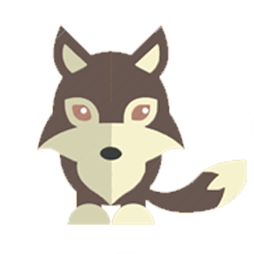
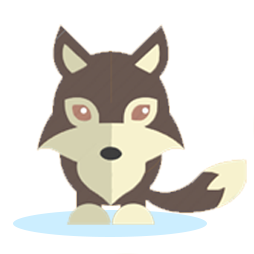
Improved walk performance

Changed region(s): [[0.0551, 0.8268, 0.8268, 0.937]]

diff --git a/src/models/Scout.js b/src/models/Scout.js
@@ -1,24 +1,23 @@
 import firebase from 'firebase/app';
 import 'firebase/database';
 
-import scoutSrc from '../assets/img/wolf-1.png';
+import ScoutSrc from '../assets/img/wolf-0.png';
+
 import config from '../config.js'
-import Path from './Path';
 
 export default class Scout {
 	constructor(uid, position, size, mode) {
 		this.scoutRef = firebase.database().ref('scouts').child(uid)
-
+		this.size = size
 		this.path = null
 		this.pathTimer = null
-
 		this.mode = 'STANDING'
-
+		this.isWalking = (mode == "WALKING")
 		this.marker = new google.maps.Marker({
 			uid: uid,
 			position: new google.maps.LatLng(position.lat, position.lng),
 			icon: {
-				url: scoutSrc,
+				url: ScoutSrc,
 				size: new google.maps.Size(size, size),
 				scaledSize: new google.maps.Size(size, size),
 				origin: new google.maps.Point(0, 0),
@@ -35,6 +34,16 @@ export default class Scout {
 		return this[key]
 	}
 
+	setIcon(icon) {
+		this.marker.setIcon({
+			url: icon,
+			size: new google.maps.Size(this.size, this.size),
+			scaledSize: new google.maps.Size(this.size, this.size),
+			origin: new google.maps.Point(0, 0),
+			anchor: new google.maps.Point(this.size / 2, this.size / 2)
+		})
+	}
+
 	setPosition(position) {
 		this.marker.setPosition(new google.maps.LatLng(position))
 	}
@@ -43,30 +52,28 @@ export default class Scout {
 		this.marker.setAnimation(animation)
 	}
 
-	walk(data) {
-		var interval = 200;
-		var now = (new Date).getTime()
-		var elapsed = ((now - data.timestamp) < 0) ? (interval * 2) : (now - data.timestamp) // @TODO unsure about this part...
-		var offset = (elapsed / interval) * 1.4
-
-		this.path = new Path(data.uid, data.path, '#3D91CB', '#3D91CB');
+	nextStep(data) {
+		var interval = 100;
+		var meterPerSecond = 1
+		var offset = ((data.timestamp - data.startTimestamp) / interval) * meterPerSecond
 
 		var walk = function() {
 			if (offset >= data.totalDist) {
-        clearInterval(this.pathTimer)
-
 				this.update({
-					totalDist: 0,
-					mode: "STANDING"
+					mode: "STANDING",
+					totalDist: null,
+					path: null,
+					timestamp: null,
+					startTimestamp: null
 				})
 			}
 			else {
-				offset = ((offset + 1.4) >= data.totalDist) ? data.totalDist : offset + 1.4;
-
-				var position = this.path.GetPointAtDistance(offset);
+				const point = ((offset + meterPerSecond) > data.totalDist) ? data.totalDist : offset
+				const position = this.path.GetPointAtDistance(point + meterPerSecond);
 
 				if (position != null) {
 					this.update({
+						timestamp: firebase.database.ServerValue.TIMESTAMP,
 						position: {
 							lat: position.lat(),
 							lng: position.lng()
@@ -76,18 +83,17 @@ export default class Scout {
 			}
 		}
 
-		this.pathTimer = setInterval(walk.bind(this), interval)
-
-		return this.path
+		this.pathTimer = setTimeout(walk.bind(this), interval)
 	}
 
 	stop() {
-		clearInterval(this.pathTimer)
-
 		return this.update({
-      totalDist: 0,
-      mode: "STANDING"
-    })
+			mode: "STANDING",
+			totalDist: null,
+			path: null,
+			timestamp: null,
+			startTimestamp: null
+		})
 	}
 
 	update(data) {

diff --git a/src/controllers/MarkerController.js b/src/controllers/MarkerController.js
@@ -9,8 +9,10 @@ import User from '../models/User';
 import Ward from '../models/Ward'
 import Gold from '../models/Gold'
 import Goblin from '../models/Goblin'
+import Path from '../models/Path';
 
-import ScoutSrc from '../assets/img/wolf-1.png';
+import ScoutSrc from '../assets/img/wolf-0.png';
+import ScoutSelectedSrc from '../assets/img/wolf-1.png';
 
 export default class MarkerController {
 	constructor(uid) {
@@ -30,6 +32,8 @@ export default class MarkerController {
 		this.storesRef = firebase.database().ref('stores')
 		this.wardsRef = null
 
+		this.path = null
+
 		this.myUser = null
 		this.myScout = null
 		this.myWardMarkers = []
@@ -45,8 +49,6 @@ export default class MarkerController {
 
 		this.userInfoWindow = null
 		this.scoutInfoWindow = null
-
-		this.isWalking = false
 	}
 
 	init(map) {
@@ -254,17 +256,21 @@ export default class MarkerController {
 		this.myScout = new Scout(uid, data.position, 40, data.mode);
 		this.myScout.marker.addListener('click', function(e) {
 			this.map.panTo(e.latLng)
-			this.myScout.marker.setAnimation(google.maps.Animation.BOUNCE)
+			this.myScout.setIcon(ScoutSelectedSrc)
 
 			window.dispatchEvent(new CustomEvent('cursor_changed', { detail: { type: "SCOUT" } }));
 		}.bind(this))
 
 		this.myScout.marker.setMap(this.map);
 
-		this.isWalking = (data.mode == "WALKING")
-
 		if (data.mode == "WALKING") {
- 			this.myScout.marker.setPosition(data.position)
+
+			if (this.myScout.path == null) {
+				this.myScout.path = new Path(data.uid, data.path, '#3D91CB', '#3D91CB');
+				this.myScout.path.setMap(this.map)
+			}
+
+			this.myScout.nextStep(data, this.path)
 		}
 
 		this.discover()
@@ -272,22 +278,26 @@ export default class MarkerController {
 
 	onMyScoutChanged(uid, data) {
 		this.myScout.set('mode', data.mode)
+		this.isWalking = this.myScout.isWalking
 
-		this.isWalking = (data.mode == "WALKING")
+		clearTimeout(this.myScout.pathTimer)
 
 		if (data.mode == "WALKING") {
 			this.myScout.setPosition(data.position)
 
 			if (this.myScout.path == null) {
-				var path = this.myScout.walk(data)
-				path.setMap(this.map)
+				this.myScout.path = new Path(data.uid, data.path, '#3D91CB', '#3D91CB');
+				this.myScout.path.setMap(this.map)
 			}
 
+			this.myScout.nextStep(data)
 		}
 
 		if (data.mode == "STANDING") {
-			this.myScout.path.setMap(null)
-			this.myScout.set('path', null)
+			if (this.myScout.path != null) {
+				this.myScout.path.setMap(null)
+				this.myScout.path = null
+			}
 
 			const title = '🔔 Scout Arrived';
 			const options = {

diff --git a/src/Home.vue b/src/Home.vue
@@ -66,7 +66,6 @@
         <li></li>
         <li></li>
         <li></li>
-        <li></li>
       </ul>
     </div>
 
@@ -109,7 +108,7 @@ import GeoService from './services/GeoService'
 // Import assets
 import KnightImg from './assets/img/knight-1.png'
 import ArcherImg from './assets/img/archer-1.png'
-import WolfImg from './assets/img/wolf-1.png'
+import WolfImg from './assets/img/wolf-0.png'
 import WardImg from './assets/img/ward-1.png'
 import GoldImg from './assets/img/coin.png'
 import WoodSwordImg from './assets/img/woodSword.png'
@@ -144,7 +143,6 @@ export default {
       itemController: new ItemController(firebase.auth().currentUser.uid),
       notificationController: new NotificationController,
       markerController: new MarkerController(firebase.auth().currentUser.uid),
-      isWalking: null,
       userClass: null,
       wardId: 0
     }
@@ -203,7 +201,7 @@ export default {
         lng: e.latLng.lng()
       }
 
-      this.markerController.myScout.marker.setAnimation(null)
+      this.markerController.myScout.setIcon(this.assets.scout)
 
       if (e.placeId) {
         e.stop()

diff --git a/webpack.config.js b/webpack.config.js
@@ -76,19 +76,19 @@ module.exports = {
     },
     extensions: ['*', '.js', '.vue', '.json']
   },
-  // devServer: {
-  //   historyApiFallback: true,
-  //   noInfo: false,
-  //   overlay: true,
-  //   https: {
-  //     key: fs.readFileSync('certificates/localhost.key'),
-  //     cert: fs.readFileSync('certificates/localhost.crt')
-  //   }
-  // },
+  devServer: {
+    historyApiFallback: true,
+    noInfo: false,
+    overlay: true,
+    https: {
+      key: fs.readFileSync('certificates/localhost.key'),
+      cert: fs.readFileSync('certificates/localhost.crt')
+    }
+  },
   performance: {
     hints: false
-  }
-  // devtool: '#eval-source-map'
+  },
+  devtool: '#eval-source-map'
 }
 
 if (process.env.NODE_ENV === 'production') {

diff --git a/src/services/PathService.js b/src/services/PathService.js
@@ -17,13 +17,14 @@ export default class PathService {
 
           if (totalDist < 5000) {
             const data = {
-              mode: travelMode,
               uid: uid,
               position: {
                 lat: fromLatlng.lat(),
                 lng: fromLatlng.lng()
               },
+              mode: travelMode,
               totalDist: totalDist,
+              startTimestamp: firebase.database.ServerValue.TIMESTAMP,
               timestamp: firebase.database.ServerValue.TIMESTAMP,
               path: []
             }

diff --git a/src/models/Path.js b/src/models/Path.js
@@ -15,7 +15,6 @@ export default class Path {
     return new google.maps.Polyline({
         uid: uid,
         path: path,
-        strokeColor: strokeColor,
         strokeOpacity: 0,
         strokeWeight: 0,
         icons: [{
